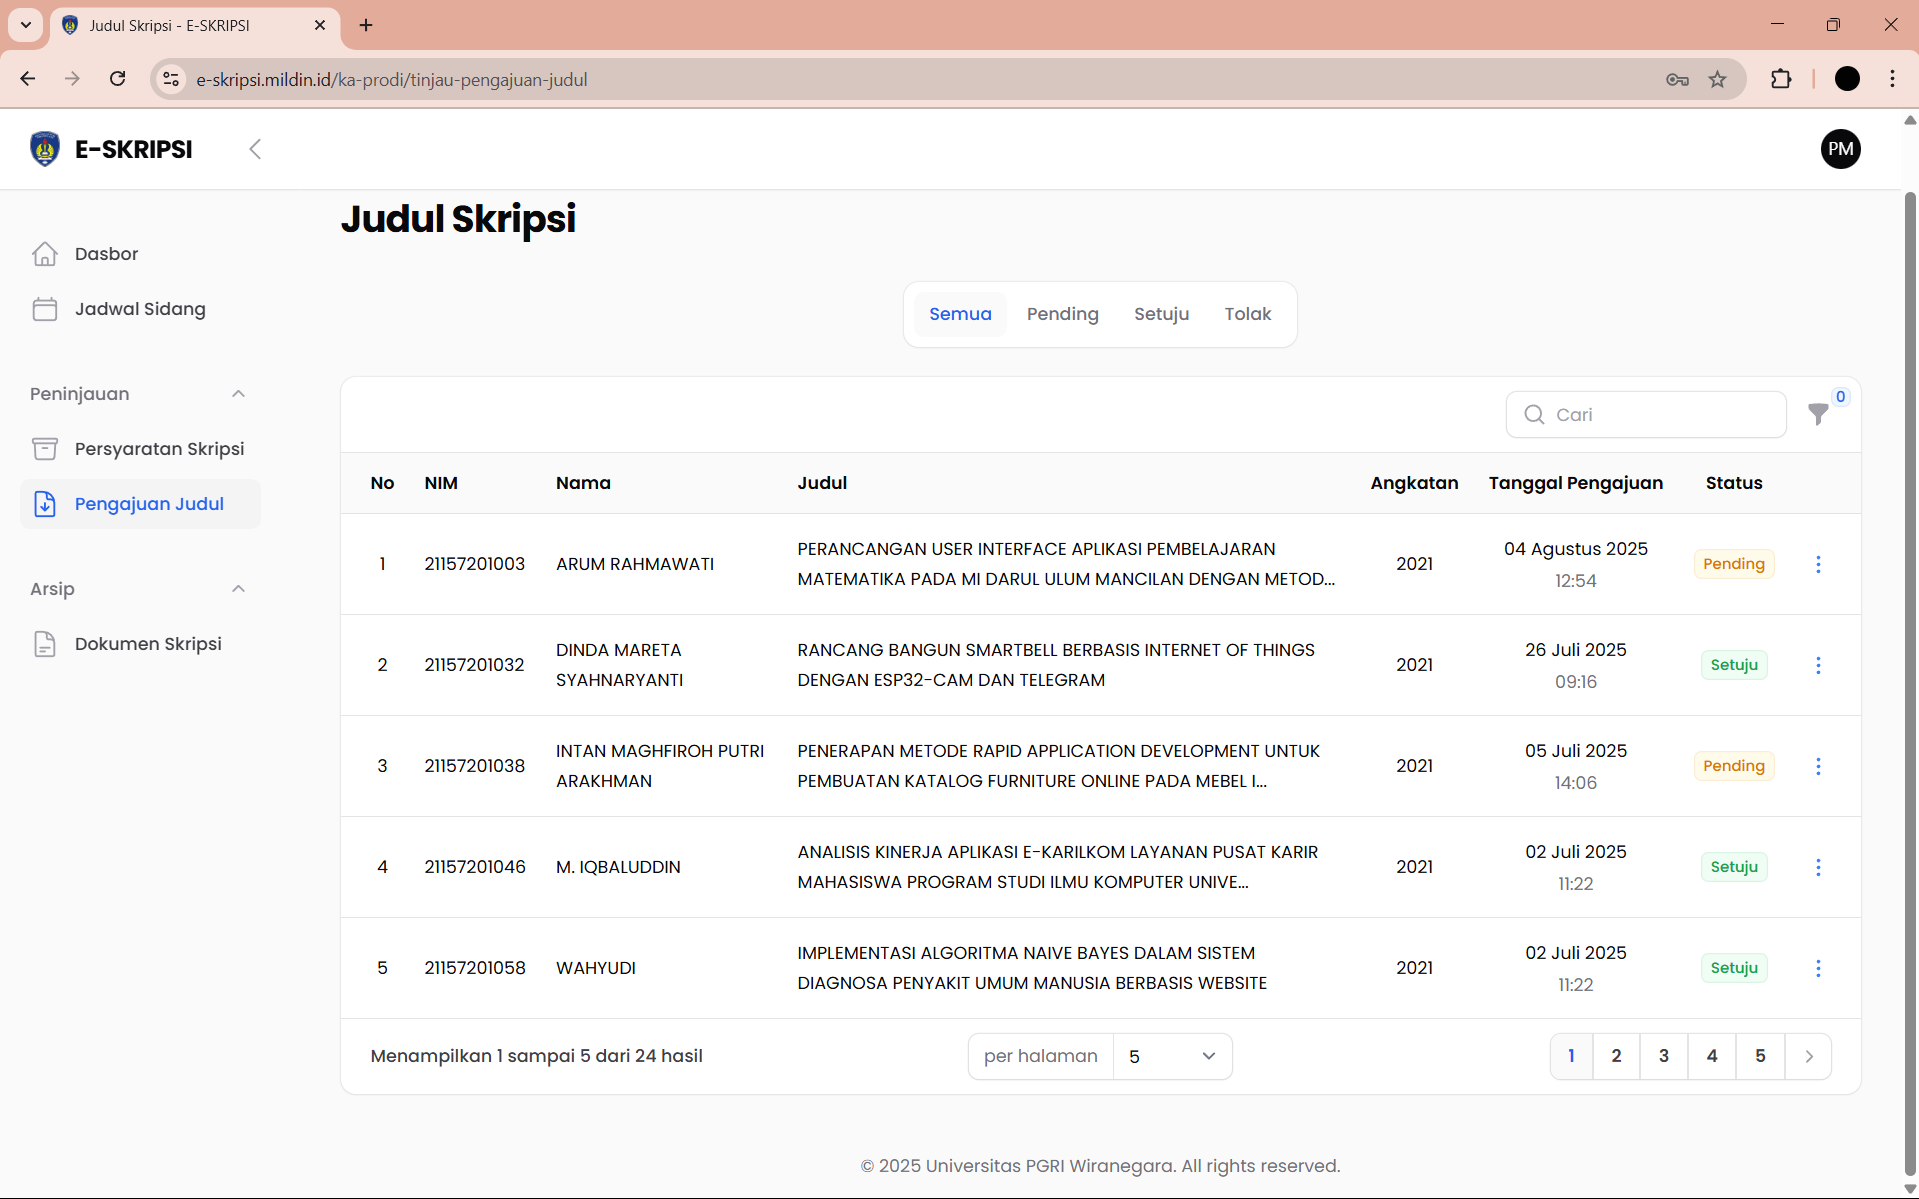
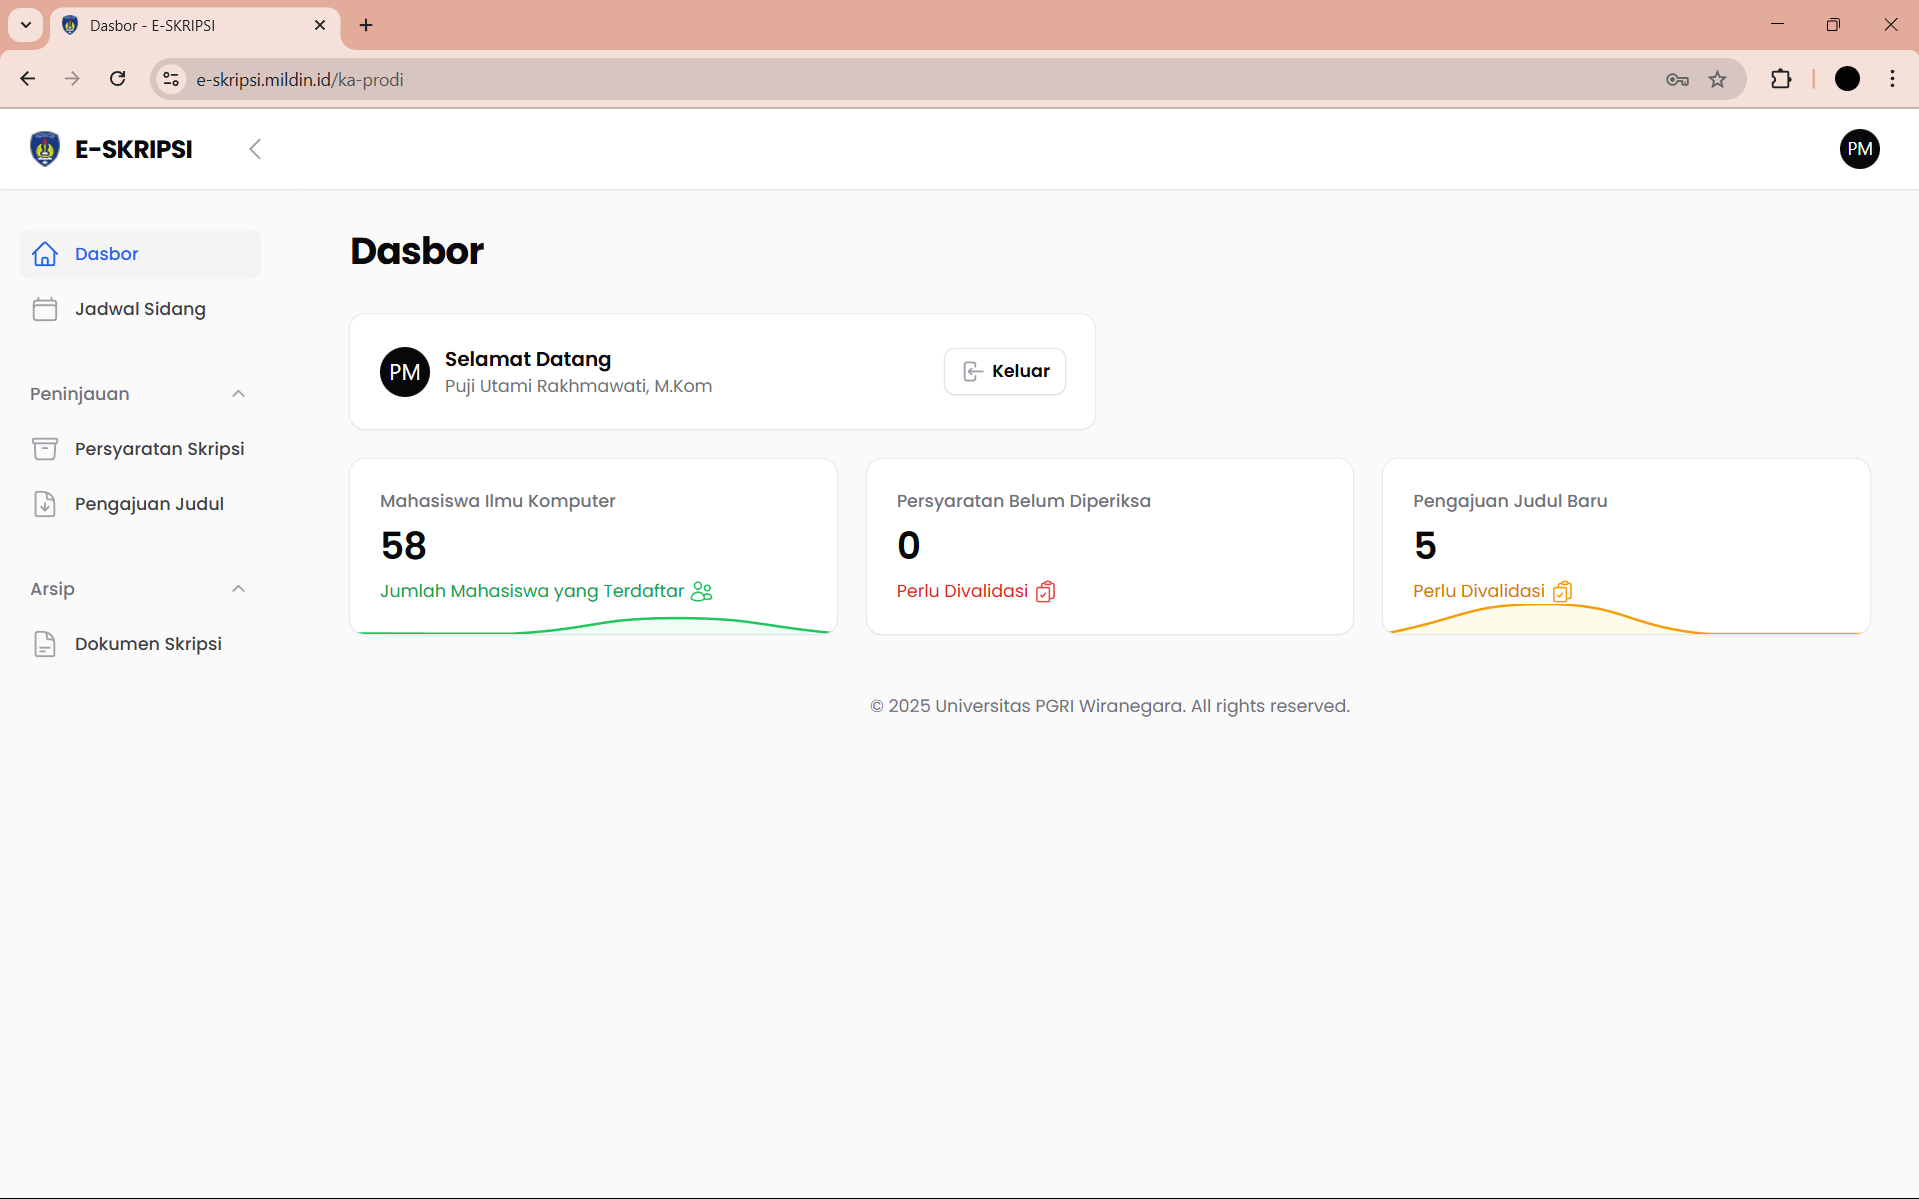
Refactor code structure for improved readability and maintainability

diff --git a/index.html b/index.html
@@ -194,12 +194,16 @@
               <li>JavaScript</li>
             </ul>
           </div>
-          <div class="project-visual" id="projectStack">
-            <img src="project/e-skripsi/1.png" alt="Dashboard aplikasi E-Skripsi" class="project-shot shot-back" />
+          <div class="project-visual" id="projectStack1">
+            <img src="project/e-skripsi/1.png" alt="Halaman Login aplikasi E-Skripsi" class="project-shot shot-front" />
 
-            <img src="project/e-skripsi/2.png" alt="Halaman pengajuan judul skripsi" class="project-shot shot-middle" />
+            <img src="project/e-skripsi/2.png" alt="Halaman Dashboard Admin" class="project-shot shot-front2" />
 
-            <img src="project/e-skripsi/3.png" alt="Halaman pengelolaan skripsi" class="project-shot shot-front" />
+            <img src="project/e-skripsi/3.png" alt="Halaman Dashboard Pembimbing" class="project-shot shot-middle" />
+
+            <img src="project/e-skripsi/4.png" alt="Halaman Dashboard Mahasiswa" class="project-shot shot-back" />
+
+            <img src="project/e-skripsi/5.png" alt="Halaman pengajuan judul (Pembimbing)" class="project-shot shot-back2" />
           </div>
         </div>
       </section>
@@ -208,24 +212,27 @@
         <div class="wrap">
           <div>
             <p class="kicker">Proyek pilihan</p>
-            <h2 id="proyek-judul">Aplikasi E-Skripsi</h2>
-            <p class="what">Aplikasi web untuk pengajuan dan peninjauan judul skripsi secara digital.</p>
+            <h2 id="proyek-judul">Absensi</h2>
+            <p class="what">Aplikasi web untuk absensi karyawan di Algostudio.</p>
             <ul class="stack" aria-label="Teknologi">
               <li>Laravel</li>
               <li>PHP</li>
-              <li>Filament</li>
               <li>MySQL</li>
               <li>HTML</li>
               <li>CSS</li>
               <li>JavaScript</li>
             </ul>
           </div>
-          <div class="project-visual" id="projectStack">
-            <img src="project/e-skripsi/1.png" alt="Dashboard aplikasi E-Skripsi" class="project-shot shot-back" />
+          <div class="project-visual" id="projectStack2">
+            <img src="project/absensi/1.png" alt="Dashboard User" class="project-shot shot-front" />
 
-            <img src="project/e-skripsi/2.png" alt="Halaman pengajuan judul skripsi" class="project-shot shot-middle" />
+            <img src="project/absensi/2.png" alt="Dashboard Admin" class="project-shot shot-front2" />
 
-            <img src="project/e-skripsi/3.png" alt="Halaman pengelolaan skripsi" class="project-shot shot-front" />
+            <img src="project/absensi/3.png" alt="Data Karyawan" class="project-shot shot-middle" />
+
+            <img src="project/absensi/4.png" alt="Penilaian Kinerja Karyawan" class="project-shot shot-back" />
+
+            <img src="project/absensi/5.png" alt="Tambah Penilaian Kinerja Karyawan" class="project-shot shot-back2" />
           </div>
         </div>
       </section>
@@ -266,25 +273,28 @@
 
     <script>
       document.addEventListener("DOMContentLoaded", function () {
-        const stack = document.getElementById("projectStack");
+        ["projectStack1", "projectStack2"].forEach(function (stackId) {
+          const stack = document.getElementById(stackId);
+          if (!stack) return;
 
-        if (!stack) return;
+          stack.addEventListener("click", function (event) {
+            const clickedImage = event.target.closest(".project-shot");
+            if (!clickedImage || !stack.contains(clickedImage)) return;
 
-        stack.addEventListener("click", function (event) {
-          const clickedImage = event.target.closest(".project-shot");
+            const frontImage = stack.querySelector(".shot-front");
+            const front2Image = stack.querySelector(".shot-front2");
+            const middleImage = stack.querySelector(".shot-middle");
+            const backImage = stack.querySelector(".shot-back");
+            const back2Image = stack.querySelector(".shot-back2");
 
-          if (!clickedImage || !stack.contains(clickedImage)) return;
+            if (!back2Image || !frontImage || !front2Image || !middleImage || !backImage) return;
 
-          const backImage = stack.querySelector(".shot-back");
-          const middleImage = stack.querySelector(".shot-middle");
-          const frontImage = stack.querySelector(".shot-front");
-
-          if (!backImage || !middleImage || !frontImage) return;
-
-          // Putar susunan agar gambar depan berpindah ke belakang.
-          frontImage.classList.replace("shot-front", "shot-back");
-          middleImage.classList.replace("shot-middle", "shot-front");
-          backImage.classList.replace("shot-back", "shot-middle");
+            back2Image.classList.replace("shot-back2", "shot-front");
+            frontImage.classList.replace("shot-front", "shot-front2");
+            front2Image.classList.replace("shot-front2", "shot-middle");
+            middleImage.classList.replace("shot-middle", "shot-back");
+            backImage.classList.replace("shot-back", "shot-back2");
+          });
         });
       });
       (function () {

diff --git a/style.css b/style.css
@@ -469,7 +469,7 @@ h2 {
   position: relative;
   width: 100%;
   max-width: 480px;
-  height: 320px;
+  height: 340px;
   margin-inline: auto;
   overflow: visible;
   isolation: isolate;
@@ -479,59 +479,90 @@ h2 {
 .project-shot {
   position: absolute;
   top: 25px;
-  left: 5px;
+  left: 5%;
   width: 90%;
   height: auto;
   aspect-ratio: 16 / 9;
   object-fit: cover;
-  border: 1px solid var(--band-line);
-  border-radius: 10px;
-  box-shadow: 0 16px 35px rgba(0, 0, 0, 0.3);
+  border: 1px solid rgba(255, 255, 255, 0.7);
+  border-radius: 14px;
+  box-shadow: 0 18px 40px rgba(0, 0, 0, 0.24);
   cursor: pointer;
   transition:
-    transform 0.4s ease,
-    opacity 0.4s ease;
+    transform 0.55s cubic-bezier(0.2, 0.75, 0.25, 1),
+    opacity 0.4s ease,
+    box-shadow 0.4s ease;
 
   -webkit-user-select: none;
   user-select: none;
 }
 
-/* Gambar paling belakang */
-.shot-back {
-  top: 0;
-  left: 5%;
-  transform: rotate(-8deg);
-  opacity: 0.65;
-  z-index: 1;
-}
-
-/* Screenshot bagian tengah */
-.shot-middle {
-  top: 25px;
-  left: 10%;
-  transform: rotate(5deg);
-  opacity: 0.85;
-  z-index: 2;
-}
-
-/* Screenshot utama di bagian depan */
+/* Gambar utama */
 .shot-front {
-  top: 50px;
-  left: 10%;
+  top: 4px;
+  left: 3%;
+  transform: rotate(0deg) scale(1.02);
+  box-shadow: 0 24px 48px rgba(0, 0, 0, 0.32);
+  z-index: 5;
+}
+
+/* gambar utama 2 */
+.shot-front1 {
+  top: 17px;
+  left: 8%;
+  transform: rotate(10deg) scale(0.98);
+  opacity: 0.82;
+  z-index: 4;
+}
+
+/* gambar tengah */
+.shot-middle {
+  top: 34px;
+  left: 6%;
+  transform: rotate(-6deg) scale(0.96);
+  opacity: 0.92;
   z-index: 3;
 }
 
+/* gambar belakang */
+.shot-back {
+  top: 48px;
+  left: 10%;
+  transform: rotate(8deg) scale(0.94);
+  opacity: 0.86;
+  z-index: 2;
+}
+
+/* gambar belakang 2 */
+.shot-back2 {
+  top: 60px;
+  left: 7%;
+  transform: rotate(-5deg) scale(0.92);
+  opacity: 0.78;
+  z-index: 1;
+}
+
 /* Efek ketika kursor diarahkan ke gambar */
-.project-visual:hover .shot-back {
-  transform: translateX(-12px) rotate(-10deg);
-}
-
-.project-visual:hover .shot-middle {
-  transform: translateX(8px) rotate(7deg);
-}
-
 .project-visual:hover .shot-front {
-  transform: translateY(-8px);
+  transform: translate(-10px, -16px) rotate(0deg) scale(1.06);
+  box-shadow: 0 30px 60px rgba(0, 0, 0, 0.38);
+  z-index: 6;
+}
+.project-visual:hover .shot-front1 {
+  transform: translate(14px, -12px) rotate(10deg) scale(1.02);
+  z-index: 5;
+}
+.project-visual:hover .shot-middle {
+  transform: translate(8px, -2px) rotate(1deg) scale(1.01);
+  z-index: 4;
+}
+.project-visual:hover .shot-back {
+  transform: translate(-16px, 5px) rotate(-8deg) scale(0.99);
+  z-index: 3;
+}
+.project-visual:hover .shot-back2 {
+  transform: translate(18px, 12px) rotate(2deg) scale(0.97);
+  z-index: 2;
 }
 
 /* Kontak */
@@ -650,7 +681,7 @@ footer .wrap {
   }
   .project-visual {
     max-width: 360px;
-    height: 240px;
+    height: 255px;
   }
   .project-shot {
     width: 90%;
@@ -658,7 +689,8 @@ footer .wrap {
 }
 @media (prefers-reduced-motion: reduce) {
   .toast,
-  .btn {
+  .btn,
+  .project-shot {
     transition: none;
   }
 }
